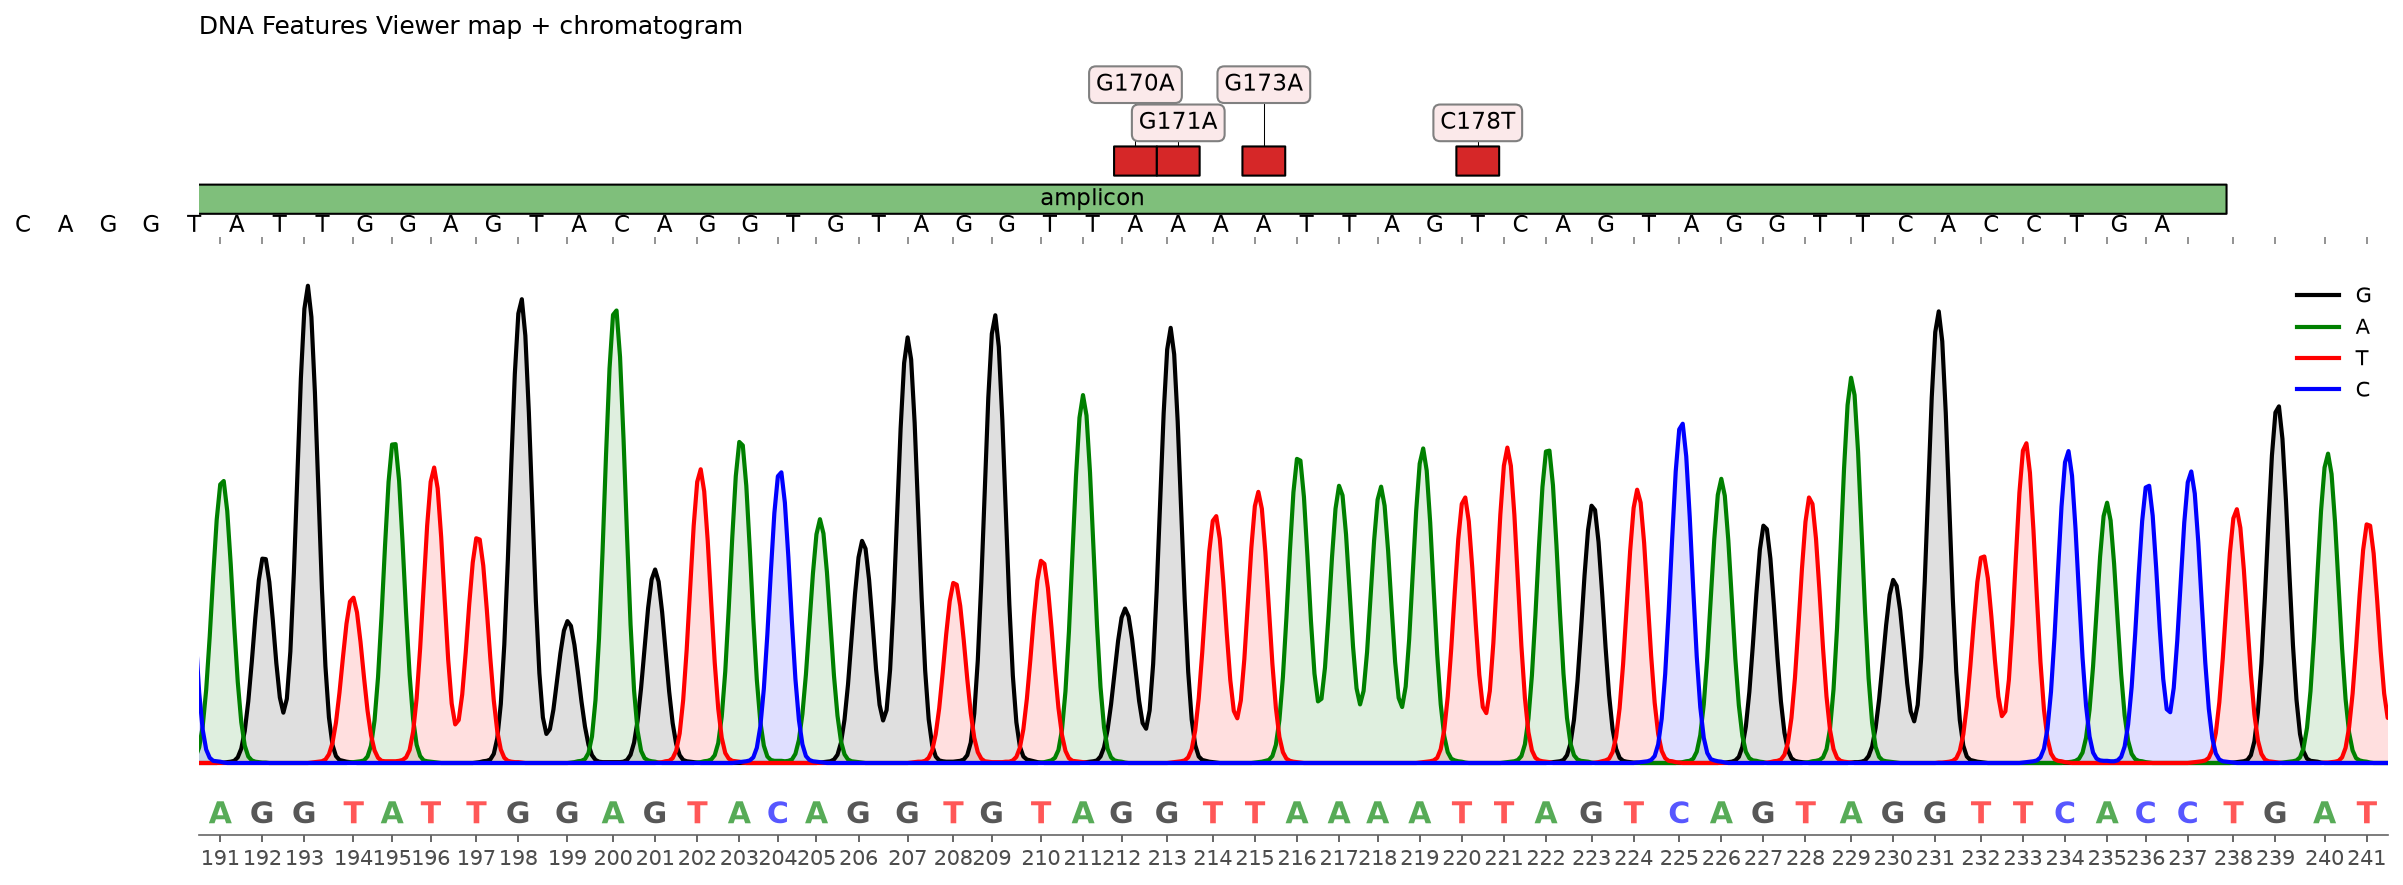
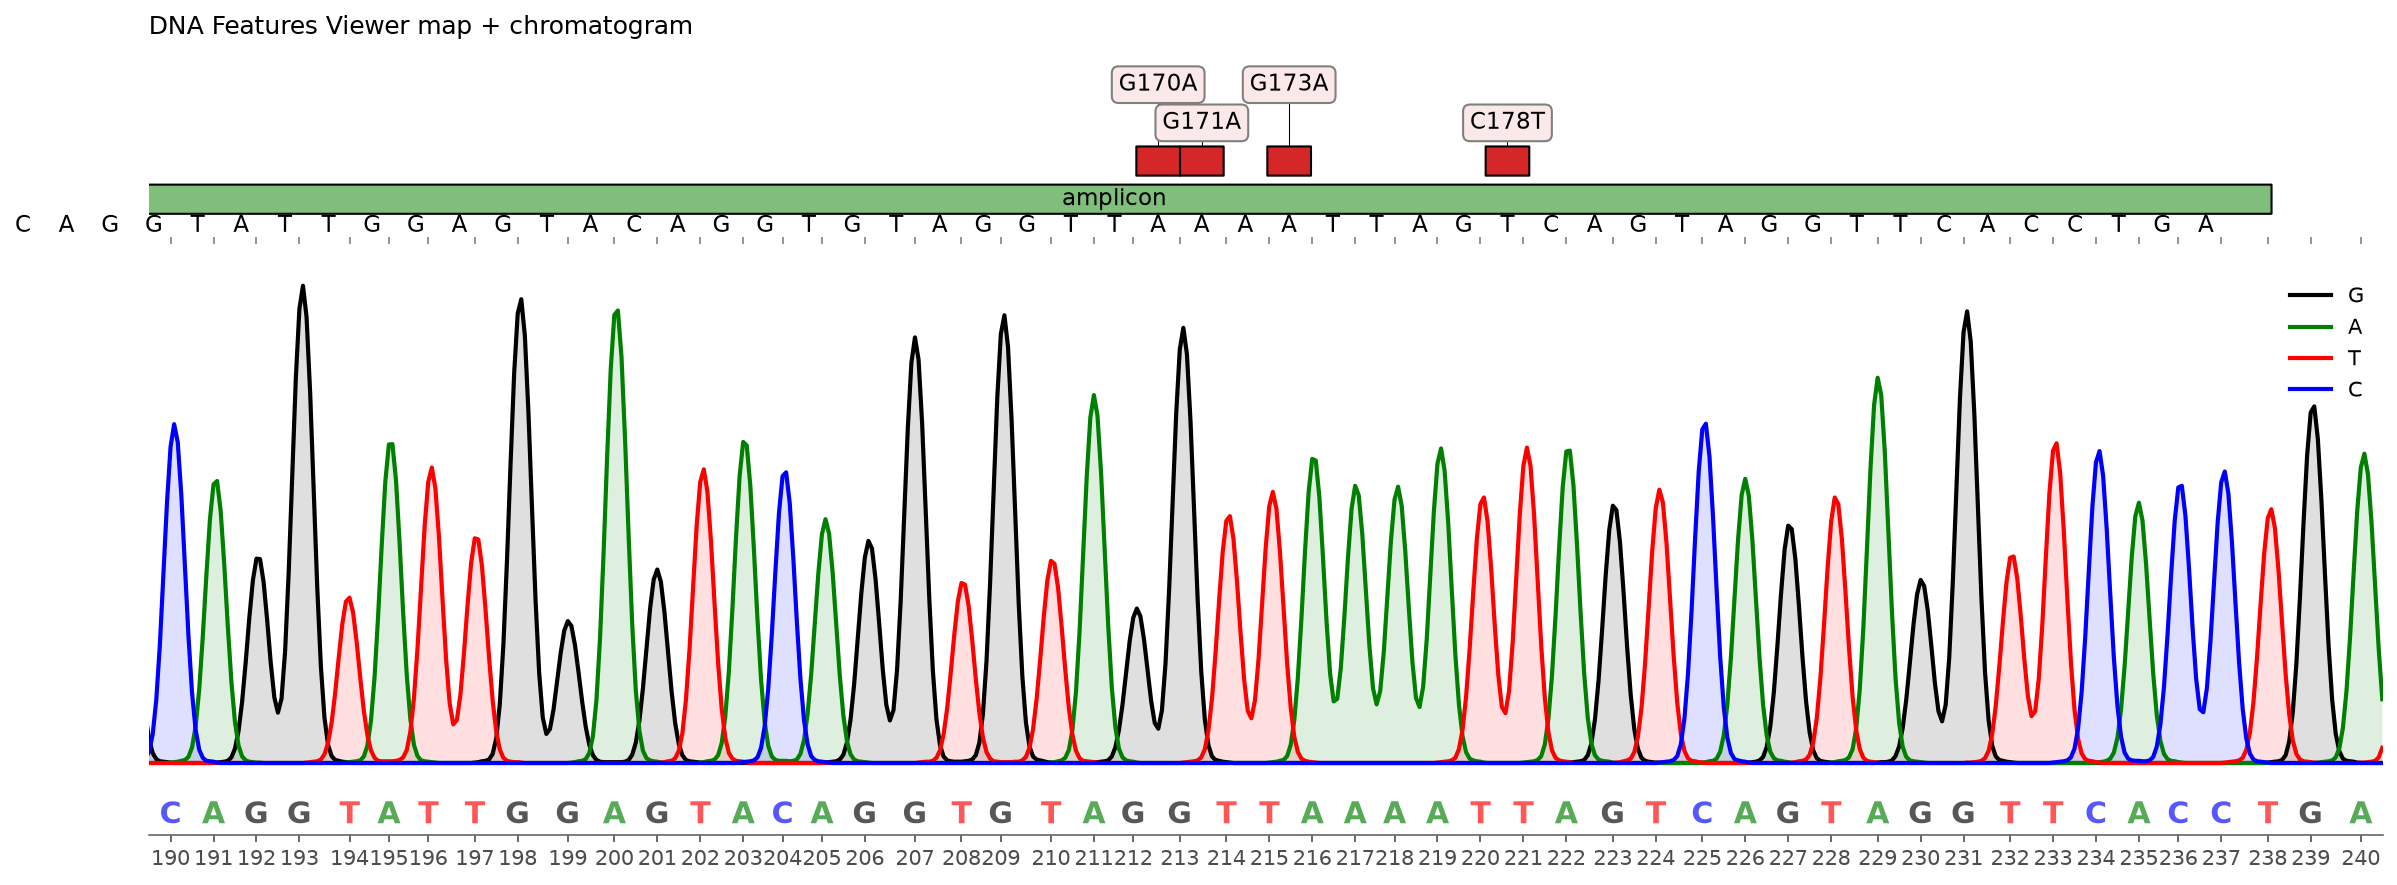
Fix rescaled-peak offset, reverse-complement axis, and 1-based region; make export fmt work
Correctness fixes (all verified against data/B5-M13R_B07.ab1):

- parser.rescale_trace: subtract peaks[0] when rescaling so the rescaled
  peak axis starts at 0, in step with trace_x (previously every base label
  was shifted right by peaks[0]/step units).
- transform.reverse_complement_record: mirror AND reverse the trace/peak
  axis so each RC base sits over the correct dye signal (previously only
  mirrored, so the sequence ran opposite to the flipped traces).
- show.plot_chromatograph: treat region as 1-based inclusive (subtract 1),
  matching composite.side_by_side and dnalink.plot_combined, so the
  requested bases are shown and cross-panel tracks line up.

Quality / robustness:
- chromatogram.export: honour fmt (fasta/json/vcf); unknown fmt raises;
  vcf requires a reference. (fmt was accepted but ignored.)
- parser.abi_iterator: default seq/qual/sample_id/channels so files missing
  SMPL1/PBAS2/PCON2 tags produce a record instead of UnboundLocalError.
- Remove dead conditionals (detect_orientation; strip_primers no-op branch).

Add regression tests for peaks[0]==0, RC axis alignment (incl. double-RC
axis round-trip), 1-based region selection, and export formats; regenerate
README example figures under standard CPython. 91 tests pass (0 skipped)
on CPython 3.12; plotting tests skip only on free-threaded builds.

diff --git a/test/test_transform.py b/test/test_transform.py
@@ -3,6 +3,8 @@
 
 import unittest
 
+import numpy as np
+
 from sanger.parser import parse_abi
 from sanger.transform import reverse_complement_record, strip_primers, trim, trim_ends
 from sanger.utils import normalize_ambiguity
@@ -47,10 +49,32 @@ class TestTransform(unittest.TestCase):
         self.assertEqual(
             len(rc.annotations["channel 1"]), len(self.query.annotations["channel 1"])
         )
+        # axis alignment: rc.seq[0] is the complement of the ORIGINAL LAST base,
+        # so it must sit at the LEFT (smallest peak x) of the flipped axis
+        rp = rc.annotations["peak positions"]
+        rt = rc.annotations["trace_x"]
+        self.assertTrue(
+            all(rp[i] <= rp[i + 1] for i in range(len(rp) - 1)),
+            "RC peak axis must be increasing (mirrored then reversed)",
+        )
+        self.assertEqual(len(rt), len(rc.annotations["channel 1"]))
+        # rc.seq[0] should sit where the original last peak maps to after flip:
+        # xmax - orig_peaks[-1]
+        xmax = max(self.query.annotations["trace_x"])
+        self.assertAlmostEqual(
+            rp[0], xmax - self.query.annotations["peak positions"][-1], delta=1e-6
+        )
 
     def test_double_rc_is_identity_seq(self):
         rc2 = reverse_complement_record(reverse_complement_record(self.query))
         self.assertEqual(rc2.seq, self.query.seq)
+        # double-RC must also restore the original peak axis (mirror+reverse twice)
+        np.testing.assert_allclose(
+            rc2.annotations["peak positions"],
+            self.query.annotations["peak positions"],
+            rtol=1e-6,
+            atol=1e-6,
+        )
 
     def test_normalize_ambiguity(self):
         self.assertEqual(normalize_ambiguity("ACGT"), "ACGT")

diff --git a/sanger/chromatogram.py b/sanger/chromatogram.py
@@ -193,10 +193,7 @@ class Chromatogram:
         """Return +1 (forward) or -1 (reverse-complement) vs ``reference``."""
         from .align import detect_orientation
 
-        rec = self.record
-        if self.path:
-            rec = self.record
-        return detect_orientation(rec, reference)
+        return detect_orientation(self.record, reference)
 
     def analyze(
         self,
@@ -233,12 +230,26 @@ class Chromatogram:
         sites = call_mutations(self.record, reference, report_all_sites=True)
         return to_vcf(sites, reference_name=reference.name or "ref", min_qual=min_qual)
 
-    def export(self, outdir: str, fmt: str = "fasta") -> str:
+    def export(self, outdir: str, fmt: str = "fasta", reference=None) -> str:
+        """Write the record to ``outdir`` in ``fmt`` (: ``fasta``/``json``/``vcf``)."""
+        from .export import to_json
 
         outdir = Path(outdir)
         outdir.mkdir(parents=True, exist_ok=True)
-        dest = outdir / f"{self.name or 'seq'}.fa"
-        dest.write_text(self.to_fasta())
+        name = self.name or "seq"
+        if fmt in ("fasta", "fa"):
+            dest = outdir / f"{name}.fa"
+            dest.write_text(self.to_fasta())
+        elif fmt == "json":
+            dest = outdir / f"{name}.json"
+            dest.write_text(to_json(self.record))
+        elif fmt == "vcf":
+            if reference is None:
+                raise ValueError("export fmt='vcf' requires a `reference` record")
+            dest = outdir / f"{name}.vcf"
+            dest.write_text(self.to_vcf(reference))
+        else:
+            raise ValueError(f"unknown export format: {fmt!r}")
         return str(dest)
 
     def plot(self, region: Optional[Tuple[int, int]] = None, ax=None):

diff --git a/sanger/transform.py b/sanger/transform.py
@@ -144,11 +144,9 @@ def strip_primers(
         f = forward.upper()
         if seq.startswith(f):
             start = len(f) + 1
-        else:
-            # tolerate the primer being reverse-complemented on the read
-            rc = reverse_complement_record(record).seq.upper()
-            if rc.startswith(f):
-                pass  # user should reverse-complement the record first
+        # (the reverse-complemented-primer tolerance is intentionally a no-op:
+        #  callers should reverse-complement the record first via
+        #  reverse_complement_record before stripping)
     end = len(record)
     if reverse:
         r = reverse.upper()
@@ -193,14 +191,17 @@ def reverse_complement_record(
         annotations=dict(record.annotations),
         letter_annotations={"phred_quality": qual},
     )
-    # mirror the traces and peaks about the trace axis so they point left
+    # mirror the traces and peaks about the trace axis so they point left,
+    # then reverse them so index k lines up with the reversed sequence/quality
+    # (both must be transformed identically or each base sits over the wrong
+    # dye signal / wrong x location)
     if trace_x.size and channels.size:
         xmax = float(trace_x.max())
-        new.annotations["trace_x"] = (xmax - trace_x).tolist()
+        new.annotations["trace_x"] = (xmax - trace_x)[::-1].tolist()
         # reverse the sample order within each channel
         for i in range(1, 5):
             new.annotations["channel " + str(i)] = channels[i - 1][::-1].tolist()
-        new.annotations["peak positions"] = (xmax - peaks).tolist()
+        new.annotations["peak positions"] = (xmax - peaks)[::-1].tolist()
     return new
 
 

diff --git a/sanger/parser.py b/sanger/parser.py
@@ -150,6 +150,13 @@ def abi_iterator(handle):
     # initialize annotations
     annot = dict(zip(_EXTRACT.values(), [None] * len(_EXTRACT)))
 
+    # defaults for tags that may be absent from a file, so a record is still
+    # produced instead of raising UnboundLocalError (e.g. no SMPL1/PBAS2/PCON2)
+    seq = ""
+    qual = []
+    sample_id = ""
+    channelorders = "ACGT"
+
     # parse header and extract data from directories
     header = struct.unpack(_HEADFMT, handle.read(struct.calcsize(_HEADFMT)))
 
@@ -377,8 +384,10 @@ def rescale_trace(seq: SeqRecord) -> SeqRecord:
         [t for (i, t) in enumerate(trace) if peaks[0] <= i < peaks[-1]]
         for trace in traces
     ]
-    #  peaks = [(p - peaks[0]) / step for p in peaks]
-    peaks = [p / step for p in peaks]
+    # subtract peaks[0] so the rescaled peak axis starts at 0, in step with
+    # trace_x (which starts at 0.0 here); otherwise every base label is
+    # shifted right by peaks[0]/step units relative to its trace peak.
+    peaks = [(p - peaks[0]) / step for p in peaks]
 
     x = [1.0 * i / step for i in range(len(traces[0]))]
 

diff --git a/test/test_show.py b/test/test_show.py
@@ -41,6 +41,19 @@ class TestShowFunc(unittest.TestCase):
         highlight_base(14, self.query_record, self.ax)
         self.assertTrue(True)
 
+    @unittest.skipIf(
+        FREE_THREADED, "matplotlib deepcopy recurses on free-threaded builds"
+    )
+    def test_region_selects_1based_bases(self) -> None:
+        """region=(start, end) is 1-based inclusive: render bases start..end.
+
+        Regression: the region was applied as 0-based indices, shifting the
+        window one base to the right (bases 11..21 instead of 10..20).
+        """
+        ax = plot_chromatograph(self.query_record, region=(10, 20), ax=self.ax)
+        labels = [t.get_text() for t in ax.get_xticklabels() if t.get_text()]
+        self.assertEqual(labels, [str(i) for i in range(10, 21)])
+
     def test_annotate_mutation(self) -> None:
         """Test annotate_mutation overlays mutation annotation."""
         mutation = SitePair(ref_pos=10, ref_base="A", cf_pos=14, cf_base="T")

diff --git a/test/test_parser.py b/test/test_parser.py
@@ -21,6 +21,19 @@ class TestParserFunc(unittest.TestCase):
         self.assertIsNotNone(record)
         self.assertTrue(hasattr(record, "seq"), "SeqRecord missing 'seq' attribute.")
 
+    def test_rescaled_peaks_start_at_zero_and_align_with_trace(self):
+        """The rescaled peak axis must start at 0, in step with trace_x.
+
+        Regression: peaks were rescaled by ``p/step`` without subtracting
+        ``peaks[0]``, so every base label was shifted right of its trace peak.
+        """
+        record = parse_abi("./data/B5-M13R_B07.ab1", rescale=True)
+        peaks = record.annotations["peak positions"]
+        trace_x = record.annotations["trace_x"]
+        self.assertAlmostEqual(peaks[0], 0.0, delta=1e-6)
+        # trace_x is trimmed to the peak span and starts at 0
+        self.assertAlmostEqual(trace_x[0], 0.0, delta=1e-6)
+
 
 if __name__ == "__main__":
     unittest.main()

diff --git a/test/test_chromatogram.py b/test/test_chromatogram.py
@@ -54,6 +54,21 @@ class TestChromatogram(unittest.TestCase):
     def test_repr(self):
         self.assertIn("B5-M13R_B07", repr(self.cg))
 
+    def test_export_formats(self):
+        import tempfile
+
+        with tempfile.TemporaryDirectory() as tmp:
+            self.assertTrue(self.cg.export(tmp).endswith(".fa"))
+            self.assertTrue(self.cg.export(tmp, fmt="json").endswith(".json"))
+            vcf = self.cg.export(tmp, fmt="vcf", reference=self.ref)
+            self.assertTrue(vcf.endswith(".vcf"))
+            # unknown formats must fail loudly, not silently write FASTA
+            with self.assertRaises(ValueError):
+                self.cg.export(tmp, fmt="bogus")
+            # vcf without a reference must fail
+            with self.assertRaises(ValueError):
+                self.cg.export(tmp, fmt="vcf")
+
 
 if __name__ == "__main__":
     unittest.main()

diff --git a/sanger/show.py b/sanger/show.py
@@ -54,8 +54,11 @@ def plot_chromatograph(
         # turn into 0 based for better indexing
         region_start, region_end = 0, len(seq) - 1
     else:
-        region_start = max(region[0], 0)
-        region_end = min(region[1], len(seq) - 1)
+        # region is a 1-based inclusive (start, end); convert to 0-based
+        # indices so the same region as composite/dnalink/center_region shows
+        # exactly the requested bases (previously shifted one base right)
+        region_start = max(region[0] - 1, 0)
+        region_end = min(region[1] - 1, len(seq) - 1)
 
     _colors = defaultdict(lambda: "purple", BASE_TO_COLOR)
     if color_map is not None:

diff --git a/README.md b/README.md
@@ -291,6 +291,18 @@ Register it in an MCP client's config, e.g.:
 
 ## ChangeLog
 
+- Fix rescaled peak-axis drift: `peaks[0]` now aligns to 0 (in step with
+  `trace_x`) instead of being shifted right by `peaks[0]/step`.
+- Fix `reverse_complement_record` axis: traces/peaks are now both mirrored
+  **and** reversed so each RC base sits over the correct dye signal.
+- Fix 1-based `region=(start, end)` in `plot_chromatograph` so the requested
+  bases are shown and `composite.side_by_side` / `dnalink.plot_combined`
+  panels line up exactly with the chromatogram.
+- Make `Chromatogram.export(fmt=...)` actually write `fasta` / `json` / `vcf`
+  (previously `fmt` was ignored); unknown formats now raise `ValueError`.
+- Harden `abi_iterator` against files missing `SMPL1` / `PBAS2` / `PCON2` tags.
+- Skip matplotlib plotting tests on free-threaded (`Py_GIL_DISABLED`) builds,
+  where matplotlib's tick-copy deep-copy recurses.
 - Replace the external `ssw` aligner with a bundled Cython Smith-Waterman
   (+ NumPy fallback) — no external alignment dependency.
 - Reverse-complement the chromatogram file (inspired by Snapgene).
